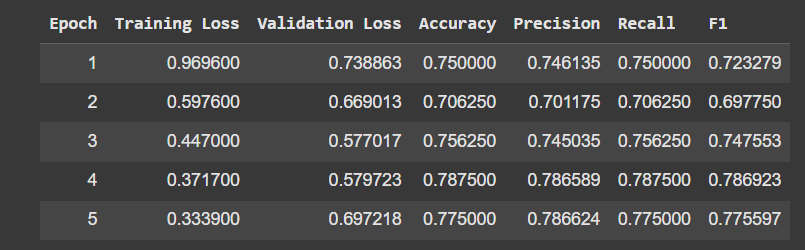
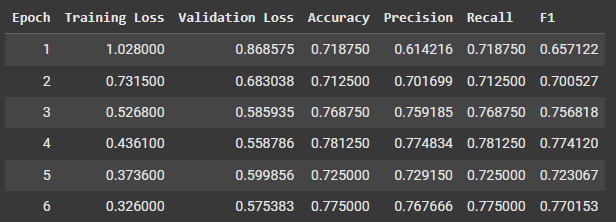
chore: update the screenshot for the epoch and parameters

diff --git a/pages/1_First_Model.py b/pages/1_First_Model.py
@@ -59,10 +59,10 @@ section("### Process",
 )
 
 section("## Results", "")
-bert_params = "{'learning_rate': 3.8475631894852275e-06, 'batch_size': 4, 'num_train_epochs': 20, 'fp16': True}"
+bert_params = "{'learning_rate': 4.194633467918101e-06,'batch_size': 8,'num_train_epochs': 15,'fp16': False,'weight_decay': 0.05}"
 st.image(os.path.abspath("../cs180-webapp/images/bert_model_loss.png"), caption="Results of the Chosen BERT Model Parameters")
-st.write(f"The parameters that were chosen for the fine-tuend BERT model that were generated by Optuna are the following: \n\n**{bert_params}**")
-st.write("Epoch 3 was the selected epoch from the generated results because it contained the least validation loss out of all the trials & epochs.")
+st.write(f"The parameters that were chosen for the fine-tuned BERT model that were generated by Optuna are the following: \n\n**{bert_params}**")
+st.write("Epoch 4 was the selected epoch from the generated results because it contained the least validation loss out of all the trials & epochs. Additionally, it also hosted the best metrics out of the metrics shown in the screenshot.")
 
 st.image(os.path.abspath("../cs180-webapp/images/rfc_results.png"), caption="Results of the Random Forest Classfier Model")
 st.image(os.path.abspath("../cs180-webapp/images/lr_results.png"), caption="Results of the Logistic Regression Model")
